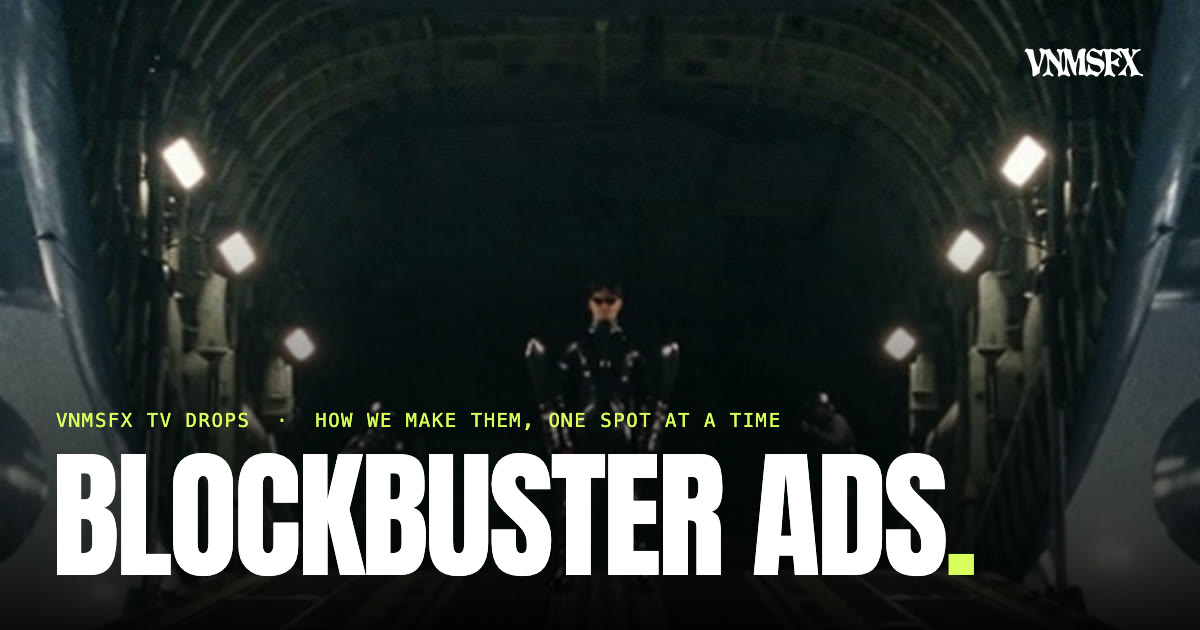
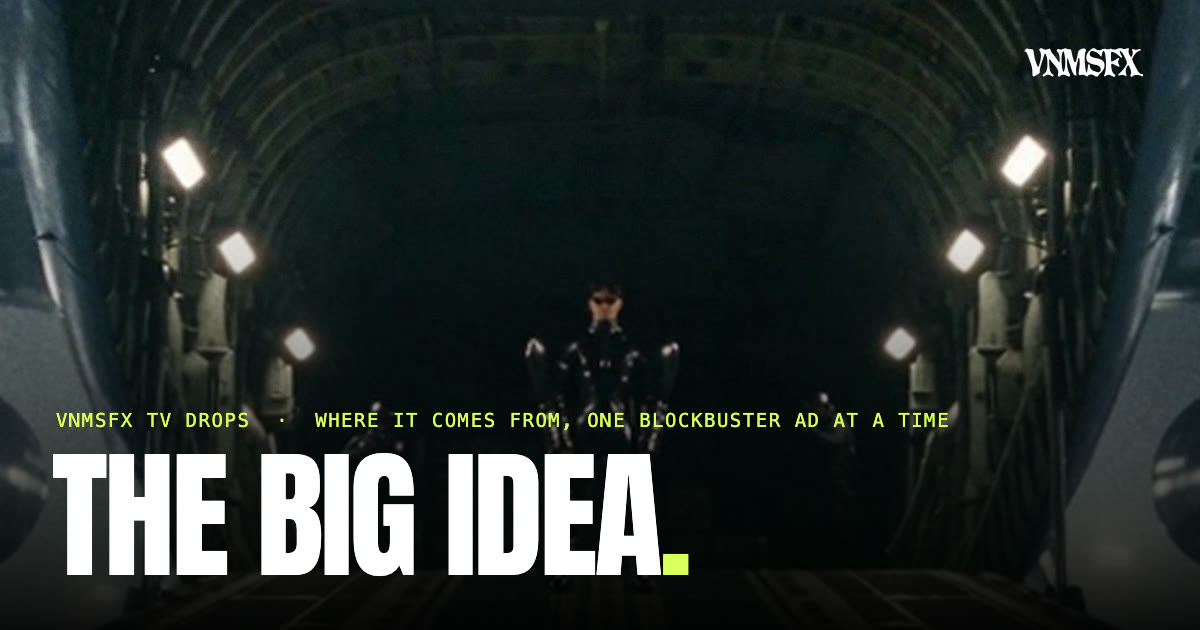
Drops: the promise is where the big idea comes from
Prompts are what everyone else shows. The series is named for the idea
on every surface, the stage gets a deck line so the countdown does not
read as a trailer, and the pass argues idea over prompts.

Changed region(s): [[0.0308, 0.6333, 0.8325, 0.9349]]

diff --git a/drops/the-recipient.html b/drops/the-recipient.html
@@ -3,11 +3,11 @@
 <head>
 <meta charset="utf-8"><meta name="viewport" content="width=device-width, initial-scale=1">
 <title>The Recipient — VNMSFX TV</title>
-<meta name="description" content="How we make blockbuster ads, one drop at a time. The Recipient drops Monday, September 21 at 12:00 PM ET. Season Pass holders get the spot 24 hours early, then the idea and the prompt stack behind it.">
+<meta name="description" content="Where the big idea comes from, one blockbuster ad at a time. The Recipient drops Monday, September 21 at 12:00 PM ET. Season Pass holders get the spot 24 hours early, then how the idea got made.">
 <link rel="canonical" href="https://vnmsfx.com/drops/the-recipient"><meta name="theme-color" content="#101010">
 <meta property="og:type" content="website"><meta property="og:site_name" content="VNMSFX TV"><meta property="og:url" content="https://vnmsfx.com/drops/the-recipient">
-<meta property="og:title" content="The Recipient — How We Make Blockbuster Ads, Drop 01"><meta property="og:description" content="Drops Monday 12 PM ET. The Season Pass gets the spot 24 hours early, then the idea and the prompt stack behind it.">
-<meta property="og:image" content="https://vnmsfx.com/tv/drops/share-the-recipient.jpg"><meta property="og:image:secure_url" content="https://vnmsfx.com/tv/drops/share-the-recipient.jpg"><meta property="og:image:type" content="image/jpeg"><meta property="og:image:width" content="1200"><meta property="og:image:height" content="630"><meta property="og:image:alt" content="The Recipient — drops Monday 12 PM ET. A figure on the ramp of a cargo plane."><meta name="twitter:card" content="summary_large_image"><meta name="twitter:title" content="The Recipient — How We Make Blockbuster Ads, Drop 01"><meta name="twitter:description" content="Drops Monday 12 PM ET. The Season Pass gets the spot 24 hours early, then the idea and the prompt stack behind it."><meta name="twitter:image" content="https://vnmsfx.com/tv/drops/share-the-recipient.jpg">
+<meta property="og:title" content="The Recipient — Where the Big Idea Comes From, Drop 01"><meta property="og:description" content="A blockbuster ad drops Monday 12 PM ET. Then we open it up: where the idea came from. Season Pass gets it 24 hours early.">
+<meta property="og:image" content="https://vnmsfx.com/tv/drops/share-the-recipient.jpg"><meta property="og:image:secure_url" content="https://vnmsfx.com/tv/drops/share-the-recipient.jpg"><meta property="og:image:type" content="image/jpeg"><meta property="og:image:width" content="1200"><meta property="og:image:height" content="630"><meta property="og:image:alt" content="The Recipient — drops Monday 12 PM ET. A figure on the ramp of a cargo plane."><meta name="twitter:card" content="summary_large_image"><meta name="twitter:title" content="The Recipient — Where the Big Idea Comes From, Drop 01"><meta name="twitter:description" content="A blockbuster ad drops Monday 12 PM ET. Then we open it up: where the idea came from. Season Pass gets it 24 hours early."><meta name="twitter:image" content="https://vnmsfx.com/tv/drops/share-the-recipient.jpg">
 <link rel="icon" href="/favicon.ico" sizes="any"><link rel="icon" type="image/png" sizes="32x32" href="/assets/favicon-32.png"><link rel="icon" type="image/png" sizes="16x16" href="/assets/favicon-16.png"><link rel="apple-touch-icon" href="/assets/favicon-180.png">
 <link rel="preconnect" href="https://fonts.googleapis.com"><link rel="preconnect" href="https://fonts.gstatic.com" crossorigin>
 <link href="https://fonts.googleapis.com/css2?family=Anton&amp;family=Archivo:wght@400;500;600;700;800;900&amp;family=Space+Mono:wght@400;700&amp;display=swap" rel="stylesheet">
@@ -25,8 +25,9 @@
     <div class="shade" id="shade"></div>
   </div>
   <div class="stage-copy">
-    <p class="eyebrow" id="stage-eyebrow">HOW WE MAKE BLOCKBUSTER ADS · DROP 01</p>
+    <p class="eyebrow" id="stage-eyebrow">WHERE THE BIG IDEA COMES FROM · DROP 01</p>
     <h1 id="drop-title">THE RECIPIENT<span class="acid">.</span></h1>
+    <p class="stage-deck">A blockbuster ad drops Monday. Then we open it up: where the idea came from, and how we'd find yours.</p>
     <p class="countdown-label" id="countdown-label">DROPS IN</p>
     <p class="countdown" id="countdown" aria-live="polite">--:--:--</p>
     <p class="release-line" id="release-line">Monday, September 21 · 12:00 PM ET</p>
@@ -38,11 +39,11 @@
   <a class="card pass-card" href="/tv/drops/card-1-ramp.jpg" data-card><img src="/tv/drops/card-1-ramp.jpg" width="1080" height="1920" alt="Package is inbound. A figure stands on the ramp of a cargo plane." loading="eager"></a>
   <div class="pass-copy">
     <p class="eyebrow">SEASON PASS · FOR BRANDS</p>
-    <h2 id="pass-title">SEE HOW IT'S <em>MADE.</em></h2>
-    <p class="pass-intro">Every studio shows you the finished spot. Nobody shows you how it got made. The pass does — one drop at a time, for nothing.</p>
+    <h2 id="pass-title">SEE WHERE THE IDEA <em>COMES FROM.</em></h2>
+    <p class="pass-intro">Every studio shows you the finished spot. Plenty of people will show you prompts. Nobody shows you where the idea came from. The pass does — one drop at a time, for nothing.</p>
     <ol class="promises">
       <li><span>01</span><p>You see each spot 24 hours before anyone else.</p></li>
-      <li><span>02</span><p>You see how it was made: the idea, then the prompt stack that built it — the part you'd normally pay a studio to figure out.</p></li>
+      <li><span>02</span><p>You see how the idea got made — the thinking before any prompt, then the stack that built it. The part you'd normally pay a studio for.</p></li>
       <li><span>03</span><p>You get the drop rate: <strong>$1,500</strong>, not $2,000, while a drop is live.</p></li>
       <li><span>04</span><p>You get a read on your own product. Reply to any drop email with what you sell and I'll tell you, in two lines, whether it has a spot in it.</p></li>
     </ol>

diff --git a/drops.html b/drops.html
@@ -3,9 +3,9 @@
 <head>
 <meta charset="utf-8"><meta name="viewport" content="width=device-width, initial-scale=1">
 <title>Drops — VNMSFX TV</title>
-<meta name="description" content="How we make blockbuster ads, one drop at a time. Each drop: the spot 24 hours early for the Season Pass, then the idea and the prompt stack behind it.">
+<meta name="description" content="Where the big idea comes from, one blockbuster ad at a time. Each drop: the spot 24 hours early for the Season Pass, then how the idea got made.">
 <link rel="canonical" href="https://vnmsfx.com/drops"><meta name="theme-color" content="#101010">
-<meta property="og:type" content="website"><meta property="og:site_name" content="VNMSFX TV"><meta property="og:url" content="https://vnmsfx.com/drops"><meta property="og:title" content="How We Make Blockbuster Ads — VNMSFX TV Drops"><meta property="og:description" content="One spot at a time: the spot 24 hours early, then the idea and the prompt stack behind it."><meta property="og:image" content="https://vnmsfx.com/tv/drops/share-drops.jpg"><meta property="og:image:secure_url" content="https://vnmsfx.com/tv/drops/share-drops.jpg"><meta property="og:image:type" content="image/jpeg"><meta property="og:image:width" content="1200"><meta property="og:image:height" content="630"><meta property="og:image:alt" content="VNMSFX TV Drops — new spots 24 hours early with the free Season Pass."><meta name="twitter:card" content="summary_large_image"><meta name="twitter:image" content="https://vnmsfx.com/tv/drops/share-drops.jpg">
+<meta property="og:type" content="website"><meta property="og:site_name" content="VNMSFX TV"><meta property="og:url" content="https://vnmsfx.com/drops"><meta property="og:title" content="Where the Big Idea Comes From — VNMSFX TV Drops"><meta property="og:description" content="One blockbuster ad at a time: the spot 24 hours early, then how the idea got made."><meta property="og:image" content="https://vnmsfx.com/tv/drops/share-drops.jpg"><meta property="og:image:secure_url" content="https://vnmsfx.com/tv/drops/share-drops.jpg"><meta property="og:image:type" content="image/jpeg"><meta property="og:image:width" content="1200"><meta property="og:image:height" content="630"><meta property="og:image:alt" content="VNMSFX TV Drops — new spots 24 hours early with the free Season Pass."><meta name="twitter:card" content="summary_large_image"><meta name="twitter:image" content="https://vnmsfx.com/tv/drops/share-drops.jpg">
 <link rel="icon" href="/favicon.ico" sizes="any"><link rel="icon" type="image/png" sizes="32x32" href="/assets/favicon-32.png"><link rel="icon" type="image/png" sizes="16x16" href="/assets/favicon-16.png"><link rel="apple-touch-icon" href="/assets/favicon-180.png">
 <link rel="preconnect" href="https://fonts.googleapis.com"><link rel="preconnect" href="https://fonts.gstatic.com" crossorigin>
 <link href="https://fonts.googleapis.com/css2?family=Anton&amp;family=Archivo:wght@400;500;600;700;800;900&amp;family=Space+Mono:wght@400;700&amp;display=swap" rel="stylesheet">
@@ -15,7 +15,7 @@
 <a class="skip" href="#main">Skip to content</a>
 <header class="drop-header"><a class="brand" href="/tv" aria-label="VNMSFX TV"><img src="/assets/logo.svg" width="115" height="28" alt="VNMSFX"></a><nav><a href="/tv">VNMSFX TV</a><a class="nav-pass" href="/drops/the-recipient#pass">Season Pass <span aria-hidden="true">↗</span></a></nav></header>
 <main id="main">
-<section class="index-hero"><p class="eyebrow">VNMSFX TV / DROPS</p><h1>HOW WE MAKE<br><em>BLOCKBUSTER ADS.</em></h1><p>One spot at a time. Each drop is the spot, 24 hours early for the Season Pass, then the idea and the prompt stack that built it. The drop rate on the Creative Sprint is open while the window is.</p></section>
+<section class="index-hero"><p class="eyebrow">VNMSFX TV / DROPS</p><h1>WHERE THE BIG IDEA<br><em>COMES FROM.</em></h1><p>One blockbuster ad at a time. Each drop is the spot, 24 hours early for the Season Pass, then how the idea got made — the thinking before any prompt. The drop rate on the Creative Sprint is open while the window is.</p></section>
 <section class="index-grid" aria-label="Drops">
   <a class="index-item" href="/drops/the-recipient"><img src="/tv/drops/card-1-ramp.jpg" width="1080" height="1920" alt="The Recipient — package is inbound"><span class="tag" data-drop-tag data-release="2026-09-21T16:00:00Z">NEXT · MON 12 PM ET</span><h3>The Recipient<span class="acid">.</span></h3><span class="sub">A 15-second spot · package is inbound</span></a>
   <a class="index-item" href="/tv/spots/fries.mp4" data-film data-title="You’re Up." data-poster="/tv/spots/fries.jpg"><img src="/tv/spots/fries.jpg" width="540" height="960" alt="You’re Up. — frozen fries get a classified extraction"><span class="tag is-live">OUT NOW · PLAY ↗</span><h3>You’re Up<span class="acid">.</span></h3><span class="sub">Frozen fries, classified extraction</span></a>

diff --git a/api/season-pass.js b/api/season-pass.js
@@ -28,9 +28,9 @@ function welcomeText(firstName, drop, rateOpen) {
 
 You're on the Season Pass.
 
-Every studio shows you the finished spot. Nobody shows you how it got made. The pass does — one drop at a time, for nothing.
+Every studio shows you the finished spot. Plenty of people will show you prompts. Nobody shows you where the idea came from. The pass does — one drop at a time, for nothing.
   - You see each spot 24 hours before anyone else.
-  - You see how it was made: the idea, then the prompt stack that built it — the part you'd normally pay a studio to figure out.
+  - You see how the idea got made — the thinking before any prompt, then the stack that built it. The part you'd normally pay a studio for.
   - You get the drop rate: ${money(drops.DROP_RATE)}, not ${money(drops.LIST_RATE)}, while a drop is live.
   - You get a read on your own product. Reply to any drop email with what you sell and I'll tell you, in two lines, whether it has a spot in it.
 
@@ -76,15 +76,15 @@ function welcomeHtml(firstName, drop, rateOpen) {
 <table role="presentation" width="100%" cellpadding="0" cellspacing="0" border="0" style="max-width:600px;background:${ink};">
   <tr><td style="padding:0;"><img src="https://vnmsfx.com/tv/drops/email-header.jpg" width="600" alt="VNMSFX TV" style="display:block;width:100%;height:auto;border:0;"></td></tr>
   <tr><td style="padding:28px 32px 0 32px;">
-    <div style="${mono}font-size:11px;color:${grey};">HOW WE MAKE BLOCKBUSTER ADS / SEASON PASS</div>
+    <div style="${mono}font-size:11px;color:${grey};">WHERE THE BIG IDEA COMES FROM / SEASON PASS</div>
     <div style="${display}font-size:44px;line-height:1.02;color:#ffffff;margin-top:10px;">YOU'RE ON<br>THE <span style="color:${acid};">LIST.</span></div>
   </td></tr>
   <tr><td style="padding:20px 32px 0 32px;${body}font-size:16px;line-height:1.6;color:#dddddd;">
-    Hey ${name} — Every studio shows you the finished spot. Nobody shows you how it got made. The pass does — one drop at a time, for nothing.
+    Hey ${name} — Every studio shows you the finished spot. Plenty of people will show you prompts. Nobody shows you where the idea came from. The pass does — one drop at a time, for nothing.
   </td></tr>
   <tr><td style="padding:14px 32px 0 32px;${body}font-size:16px;line-height:1.7;color:#ffffff;">
     <span style="color:${acid};">01</span>&nbsp; You see each spot 24 hours before anyone else.<br>
-    <span style="color:${acid};">02</span>&nbsp; You see how it was made: the idea, then the prompt stack that built it — the part you'd normally pay a studio to figure out.<br>
+    <span style="color:${acid};">02</span>&nbsp; You see how the idea got made — the thinking before any prompt, then the stack that built it. The part you'd normally pay a studio for.<br>
     <span style="color:${acid};">03</span>&nbsp; You get the drop rate: ${money(drops.DROP_RATE)}, not ${money(drops.LIST_RATE)}, while a drop is live.<br>
     <span style="color:${acid};">04</span>&nbsp; You get a read on your own product. Reply to any drop email with what you sell and I'll tell you, in two lines, whether it has a spot in it.
   </td></tr>

diff --git a/api/_drop-mail.js b/api/_drop-mail.js
@@ -38,7 +38,7 @@ VNMSFX TV — ${pageUrl}
 You're getting this because you're on the Season Pass. One email per drop. Reply "stop" and you're off.`;
 const html = (name) => `<!doctype html><html><body style="margin:0;padding:0;background:#000;"><table role="presentation" width="100%" cellpadding="0" cellspacing="0" border="0" style="background:#000;"><tr><td align="center" style="padding:28px 12px;"><table role="presentation" width="100%" cellpadding="0" cellspacing="0" border="0" style="max-width:600px;background:${ink};">
 <tr><td><a href="${filmUrl}"><img src="https://vnmsfx.com${drop.cards[2]}" width="600" alt="${drop.title}" style="display:block;width:100%;height:auto;border:0;"></a></td></tr>
-<tr><td style="padding:28px 32px 0 32px;"><div style="${mono}font-size:11px;color:${grey};">HOW WE MAKE BLOCKBUSTER ADS · DROP 01 · 24 HOURS EARLY</div><div style="${display}font-size:44px;line-height:1.02;color:#fff;margin-top:10px;">${drop.title.toUpperCase()}<span style="color:${acid};">.</span></div></td></tr>
+<tr><td style="padding:28px 32px 0 32px;"><div style="${mono}font-size:11px;color:${grey};">WHERE THE BIG IDEA COMES FROM · DROP 01 · 24 HOURS EARLY</div><div style="${display}font-size:44px;line-height:1.02;color:#fff;margin-top:10px;">${drop.title.toUpperCase()}<span style="color:${acid};">.</span></div></td></tr>
 <tr><td style="padding:18px 32px 0 32px;${body}font-size:16px;line-height:1.6;color:#ddd;">Hey ${name} — it's yours a day before anyone else. Public ${publicAt}. Until then it's just the list.</td></tr>
 <tr><td style="padding:22px 32px 0 32px;"><a href="${filmUrl}" style="${body}display:inline-block;background:${acid};color:${ink};text-decoration:none;font-weight:700;font-size:14px;padding:16px 20px;">Watch with sound &nbsp;↗</a></td></tr>
 <tr><td style="padding:26px 32px 0 32px;"><div style="${mono}font-size:11px;color:${grey};">THE BRIEF</div><div style="${body}font-size:15px;line-height:1.6;color:#fff;margin-top:6px;">${drop.brief}</div><div style="${mono}font-size:11px;color:${grey};margin-top:16px;">WHAT IT TOOK</div><div style="${body}font-size:15px;line-height:1.6;color:#fff;margin-top:6px;">${drop.took}</div></td></tr>

diff --git a/api/_drops.js b/api/_drops.js
@@ -26,12 +26,12 @@ const DROPS = [
     brief: "Every fragrance ad shows you the bottle. So nobody looks. We shot this one like something you’re not supposed to have: never named, never explained, logo on the last frame only. You look.",
     // THE SAUCE — what pass holders get with this drop. Placeholders block the send (see _drop-mail.js ready()).
     sauce: {
-      label: "DROP 01 · THE IDEA AND THE PROMPT STACK",
+      label: "DROP 01 · WHERE THE IDEA CAME FROM",
       lines: [
-        "TBD — the idea in one line, in Brandon's words",
-        "TBD — prompt 1: the world (camera, stock, light, the rule that nothing is named)",
-        "TBD — prompt 2: the three scenes as written to the model",
-        "TBD — prompt 3: the handoff beat and the last-frame reveal",
+        "TBD — the observation that started it (what everyone in the category does)",
+        "TBD — the tension we found in it (why that stops people looking)",
+        "TBD — the idea in one line, and the rule that protected it (nothing named until the last frame)",
+        "TBD — the stack that built it, excerpted (world, scenes, the handoff beat)",
       ],
     },
     took: "Fifteen seconds usually buys one room and a product shot. This one needed a cargo plane, a back seat and a hotel bathroom. One week, three actors, one line of dialogue, and the house look on top: 35mm grain, halation, anamorphic squeeze.",

diff --git a/drops/drops.js b/drops/drops.js
@@ -18,7 +18,7 @@
     stage.classList.add('is-live');
     tease.pause(); tease.hidden = true;
     film.src = body.dataset.film; film.poster = body.dataset.poster; film.hidden = false;
-    eyebrow.textContent = 'HOW WE MAKE BLOCKBUSTER ADS · DROP 01 · OUT NOW';
+    eyebrow.textContent = 'WHERE THE BIG IDEA COMES FROM · DROP 01 · OUT NOW';
     label.textContent = 'OUT NOW'; countdown.textContent = '00:00:00'; countdown.hidden = true;
     releaseLine.textContent = 'Released Monday, September 21 · 12:00 PM ET';
     actions.innerHTML = '<button class="button-acid" type="button" id="play-film">Play with sound <span aria-hidden="true">↗</span></button><a class="button-dark" href="/creative-sprint?rate=drop&drop=' + body.dataset.drop + '">Start a Sprint at $1,500 <span aria-hidden="true">↗</span></a>';

diff --git a/drops/drops.css b/drops/drops.css
@@ -21,7 +21,7 @@ a:focus-visible,button:focus-visible,input:focus-visible{outline:3px solid var(-
 .stage-copy{position:relative;padding:120px var(--gutter) 48px;max-width:1100px}
 .stage.is-live .stage-copy{padding-top:26px}
 .stage-copy h1{font-size:clamp(56px,13vw,150px)}
-.countdown-label{margin-top:28px;color:var(--muted)}
+.stage-deck{margin-top:18px;max-width:640px;font-size:clamp(17px,1.7vw,22px);line-height:1.35;color:#ddd;letter-spacing:-.01em}.countdown-label{margin-top:28px;color:var(--muted)}
 .countdown{font:clamp(44px,9vw,110px)/1 var(--mono);letter-spacing:-.02em;margin-top:6px;font-variant-numeric:tabular-nums}
 .release-line{margin-top:10px;color:var(--muted)}
 .stage-actions{margin-top:28px;display:flex;gap:14px;flex-wrap:wrap}
